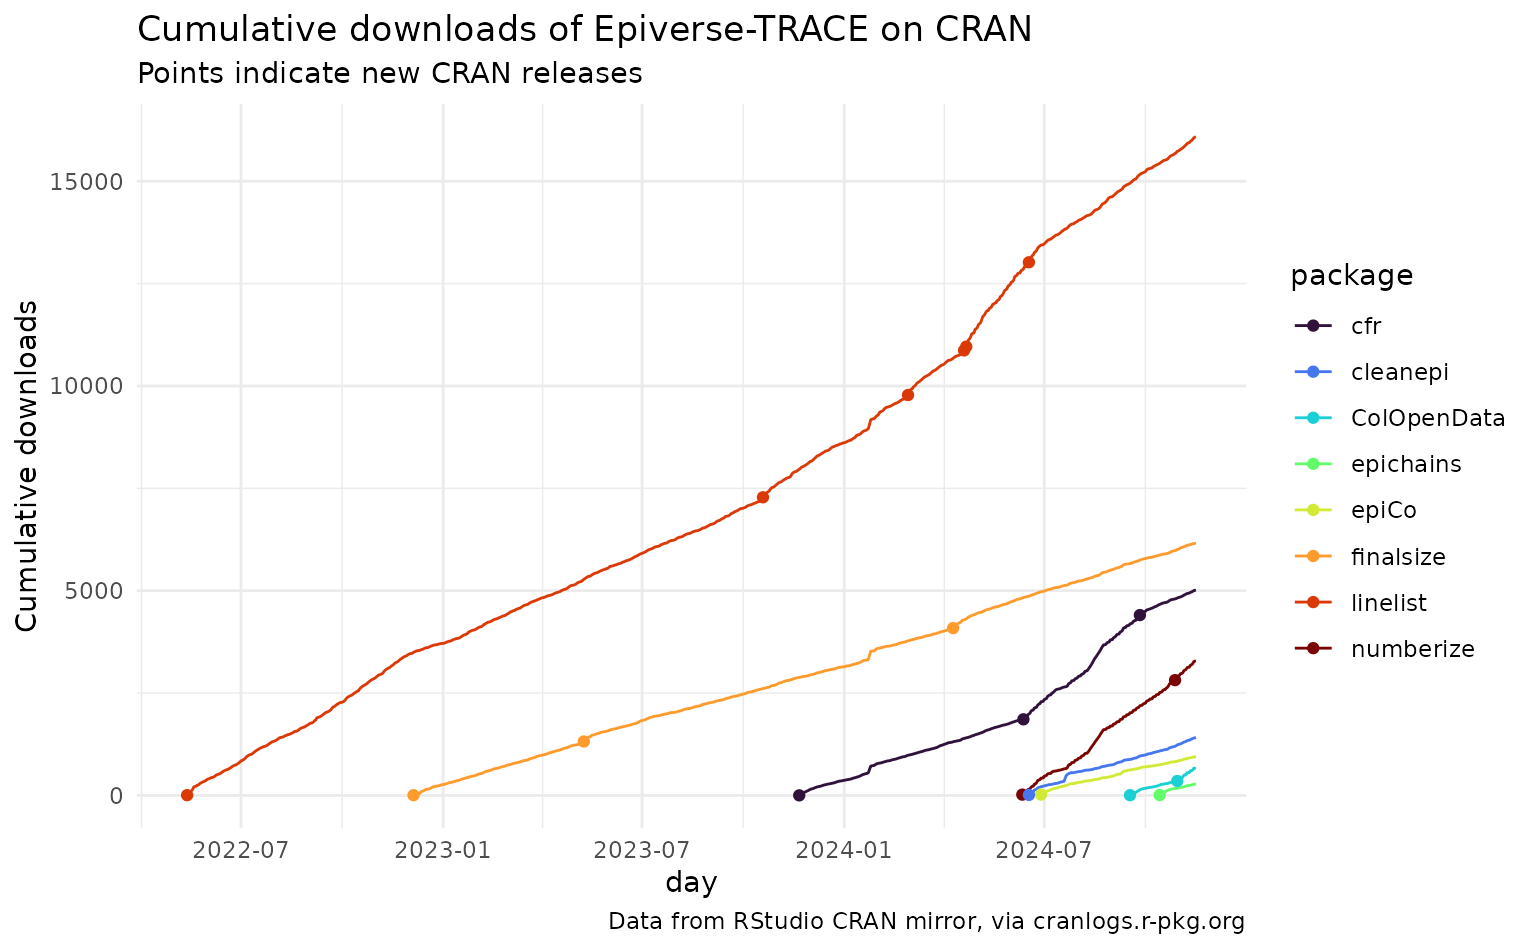
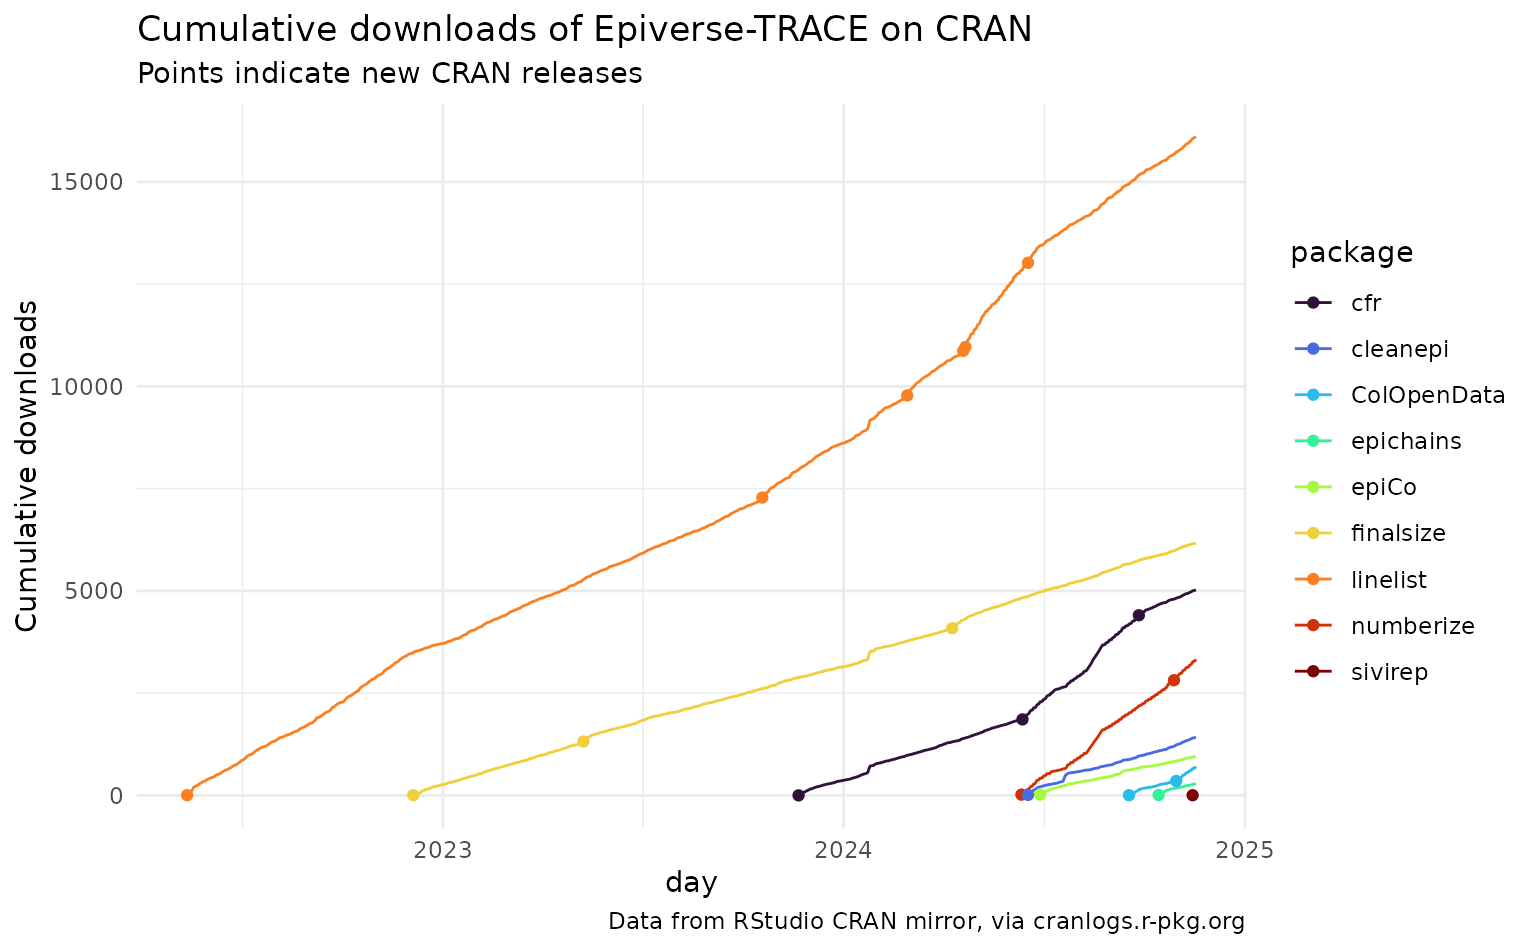
Deploying to gh-pages from @ epiverse-trace/etstats@d01895c5446ae6f716b10ee2547ab59476f4e1d9 🚀

diff --git a/articles/cran-statistics.html b/articles/cran-statistics.html
@@ -74,7 +74,7 @@
 
       <h1>CRAN statistics</h1>
             
-            <h4 data-toc-skip class="date">2024-11-18</h4>
+            <h4 data-toc-skip class="date">2024-11-19</h4>
       
       <small class="dont-index">Source: <a href="https://github.com/epiverse-trace/etstats/blob/main/vignettes/cran-statistics.Rmd" class="external-link"><code>vignettes/cran-statistics.Rmd</code></a></small>
       <div class="d-none name"><code>cran-statistics.Rmd</code></div>
@@ -82,8 +82,9 @@
 
     
     
-<p>We currently have 8 Epiverse-TRACE packages on CRAN:</p>
+<p>We currently have 9 Epiverse-TRACE packages on CRAN:</p>
 <ul>
+<li><a href="https://cran.r-project.org/package=sivirep" class="external-link">sivirep</a></li>
 <li><a href="https://cran.r-project.org/package=epichains" class="external-link">epichains</a></li>
 <li><a href="https://cran.r-project.org/package=epiCo" class="external-link">epiCo</a></li>
 <li><a href="https://cran.r-project.org/package=ColOpenData" class="external-link">ColOpenData</a></li>
@@ -93,11 +94,11 @@
 <li><a href="https://cran.r-project.org/package=linelist" class="external-link">linelist</a></li>
 <li><a href="https://cran.r-project.org/package=finalsize" class="external-link">finalsize</a></li>
 </ul>
-<p>In total, Epiverse-TRACE packages on CRAN have been downloaded 33854
+<p>In total, Epiverse-TRACE packages on CRAN have been downloaded 34026
 times.</p>
 <p>Below is a visualization of the breakdown of this grand total by
 package over time.</p>
-<p><img src="cran-statistics_files/figure-html/unnamed-chunk-7-1.png" alt="Cumulative downloads of Epiverse-TRACE on CRAN (epichains, epiCo, ColOpenData, numberize, cleanepi, cfr, linelist, finalsize)" width="768"></p>
+<p><img src="cran-statistics_files/figure-html/unnamed-chunk-7-1.png" alt="Cumulative downloads of Epiverse-TRACE on CRAN (sivirep, epichains, epiCo, ColOpenData, numberize, cleanepi, cfr, linelist, finalsize)" width="768"></p>
 <table class="table">
 <thead><tr class="header">
 <th align="left">package</th>
@@ -110,55 +111,61 @@ package over time.</p>
 <td align="left">finalsize</td>
 <td align="right">260</td>
 <td align="right">2881</td>
-<td align="right">3018</td>
+<td align="right">3026</td>
 </tr>
 <tr class="even">
 <td align="left">linelist</td>
 <td align="right">3712</td>
 <td align="right">4898</td>
-<td align="right">7476</td>
+<td align="right">7492</td>
 </tr>
 <tr class="odd">
 <td align="left">cfr</td>
 <td align="right">NA</td>
 <td align="right">364</td>
-<td align="right">4650</td>
+<td align="right">4661</td>
 </tr>
 <tr class="even">
 <td align="left">ColOpenData</td>
 <td align="right">NA</td>
 <td align="right">NA</td>
-<td align="right">668</td>
+<td align="right">706</td>
 </tr>
 <tr class="odd">
 <td align="left">cleanepi</td>
 <td align="right">NA</td>
 <td align="right">NA</td>
-<td align="right">1415</td>
+<td align="right">1423</td>
 </tr>
 <tr class="even">
 <td align="left">epiCo</td>
 <td align="right">NA</td>
 <td align="right">NA</td>
-<td align="right">947</td>
+<td align="right">951</td>
 </tr>
 <tr class="odd">
 <td align="left">epichains</td>
 <td align="right">NA</td>
 <td align="right">NA</td>
-<td align="right">279</td>
+<td align="right">284</td>
 </tr>
 <tr class="even">
 <td align="left">numberize</td>
 <td align="right">NA</td>
 <td align="right">NA</td>
-<td align="right">3286</td>
+<td align="right">3329</td>
 </tr>
 <tr class="odd">
+<td align="left">sivirep</td>
+<td align="right">NA</td>
+<td align="right">NA</td>
+<td align="right">39</td>
+</tr>
+<tr class="even">
 <td align="left">Total</td>
 <td align="right">3972</td>
 <td align="right">8143</td>
-<td align="right">21739</td>
+<td align="right">21911</td>
 </tr>
 </tbody>
 </table></main>

diff --git a/articles/github-statistics.html b/articles/github-statistics.html
@@ -74,7 +74,7 @@
 
       <h1>GitHub statistics</h1>
             
-            <h4 data-toc-skip class="date">2024-11-18</h4>
+            <h4 data-toc-skip class="date">2024-11-19</h4>
       
       <small class="dont-index">Source: <a href="https://github.com/epiverse-trace/etstats/blob/main/vignettes/github-statistics.Rmd" class="external-link"><code>vignettes/github-statistics.Rmd</code></a></small>
       <div class="d-none name"><code>github-statistics.Rmd</code></div>
@@ -85,7 +85,7 @@
 <div class="section level2">
 <h2 id="github-followers">GitHub followers<a class="anchor" aria-label="anchor" href="#github-followers"></a>
 </h2>
-<p>Our Epiverse-TRACE GitHub organization currently has 160
+<p>Our Epiverse-TRACE GitHub organization currently has 163
 followers.</p>
 </div>
 <div class="section level2">
@@ -94,8 +94,8 @@ followers.</p>
 <div class="section level3">
 <h3 id="totals">Totals<a class="anchor" aria-label="anchor" href="#totals"></a>
 </h3>
-<p>In total, we have 217 stars across all Epiverse-TRACE packages. These
-stars come from 135 unique users.</p>
+<p>In total, we have 218 stars across all Epiverse-TRACE packages. These
+stars come from 136 unique users.</p>
 <p><img src="github-statistics_files/figure-html/unnamed-chunk-5-1.png" width="768"></p>
 </div>
 <div class="section level3">
@@ -182,31 +182,31 @@ stars come from 135 unique users.</p>
 <td align="right">8</td>
 </tr>
 <tr class="odd">
+<td align="left">epichains</td>
+<td align="right">0</td>
+<td align="right">1</td>
+<td align="right">6</td>
+<td align="right">7</td>
+</tr>
+<tr class="even">
 <td align="left">packagetemplate</td>
 <td align="right">0</td>
 <td align="right">3</td>
 <td align="right">4</td>
 <td align="right">7</td>
 </tr>
-<tr class="even">
+<tr class="odd">
 <td align="left">readepi</td>
 <td align="right">3</td>
 <td align="right">2</td>
 <td align="right">1</td>
 <td align="right">6</td>
 </tr>
-<tr class="odd">
+<tr class="even">
 <td align="left">epi-training-kit</td>
 <td align="right">0</td>
 <td align="right">5</td>
 <td align="right">1</td>
-<td align="right">6</td>
-</tr>
-<tr class="even">
-<td align="left">epichains</td>
-<td align="right">0</td>
-<td align="right">1</td>
-<td align="right">5</td>
 <td align="right">6</td>
 </tr>
 <tr class="odd">
@@ -290,8 +290,8 @@ stars come from 135 unique users.</p>
 <td align="left">Total</td>
 <td align="right">24</td>
 <td align="right">89</td>
-<td align="right">104</td>
-<td align="right">217</td>
+<td align="right">105</td>
+<td align="right">218</td>
 </tr>
 </tbody>
 </table>
